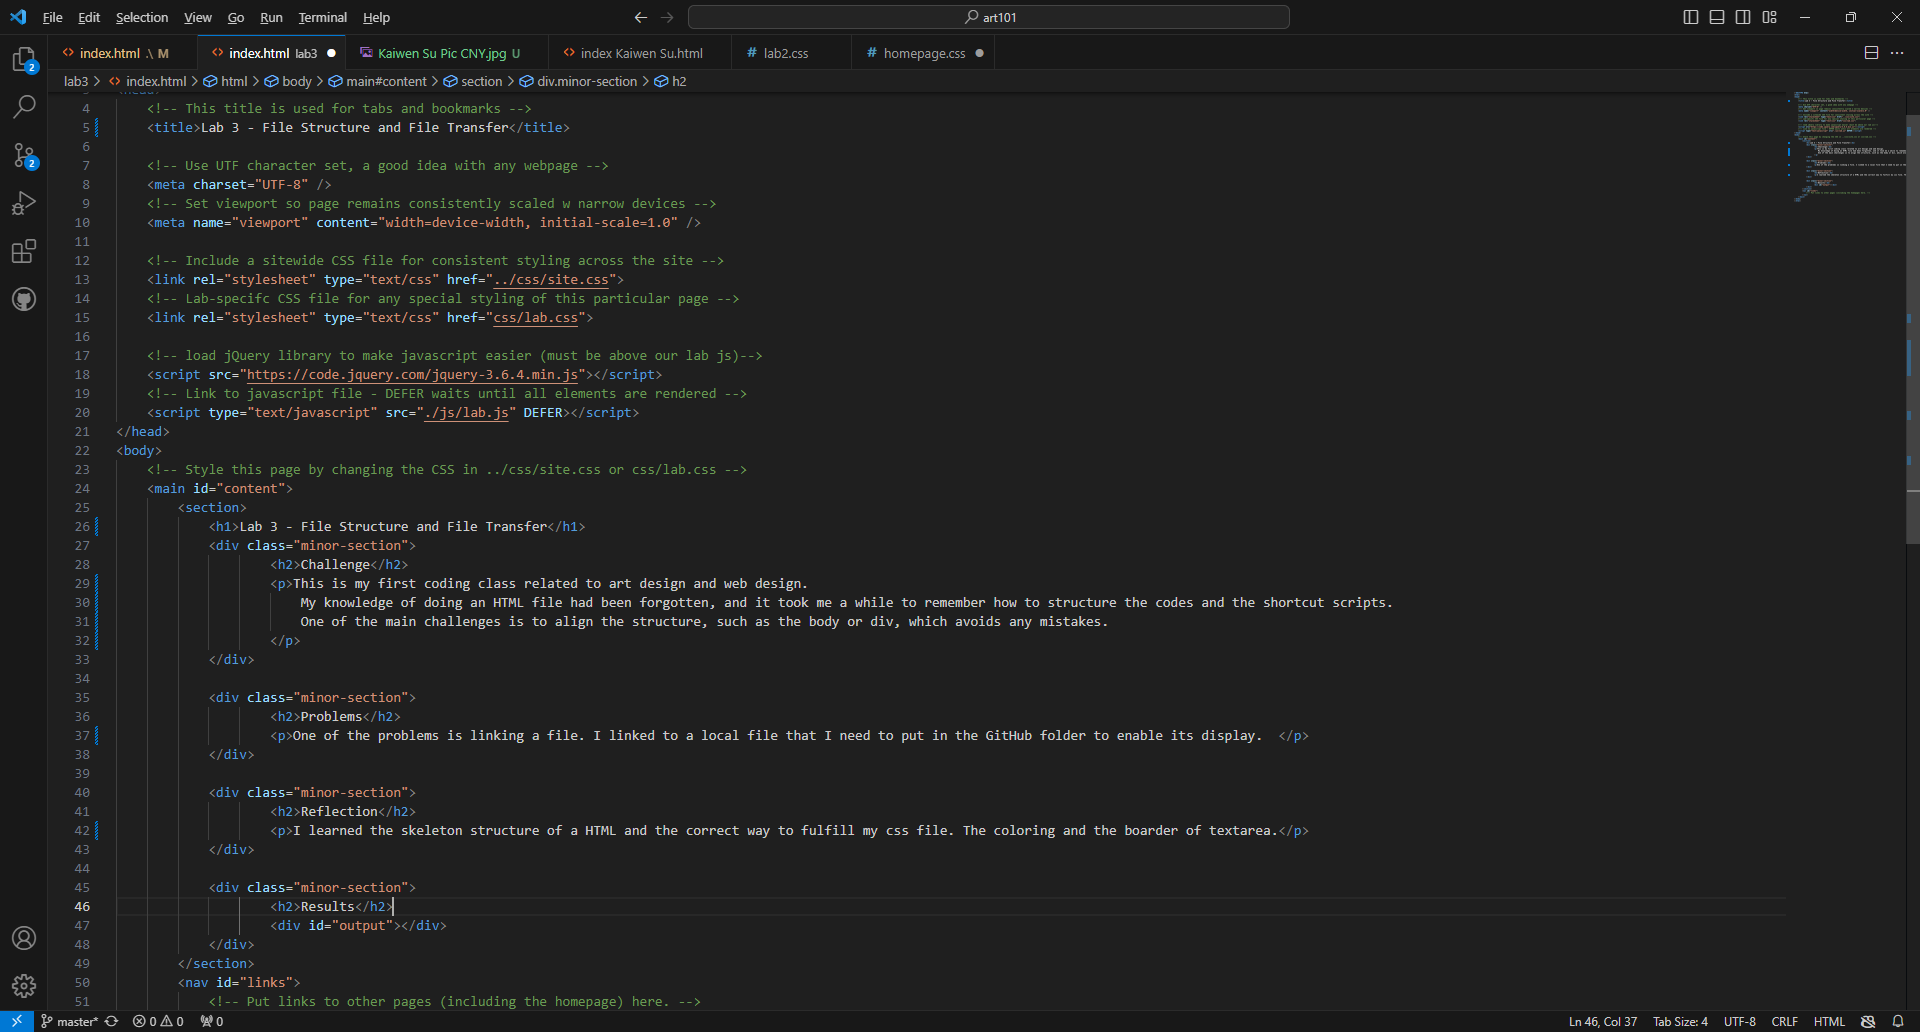
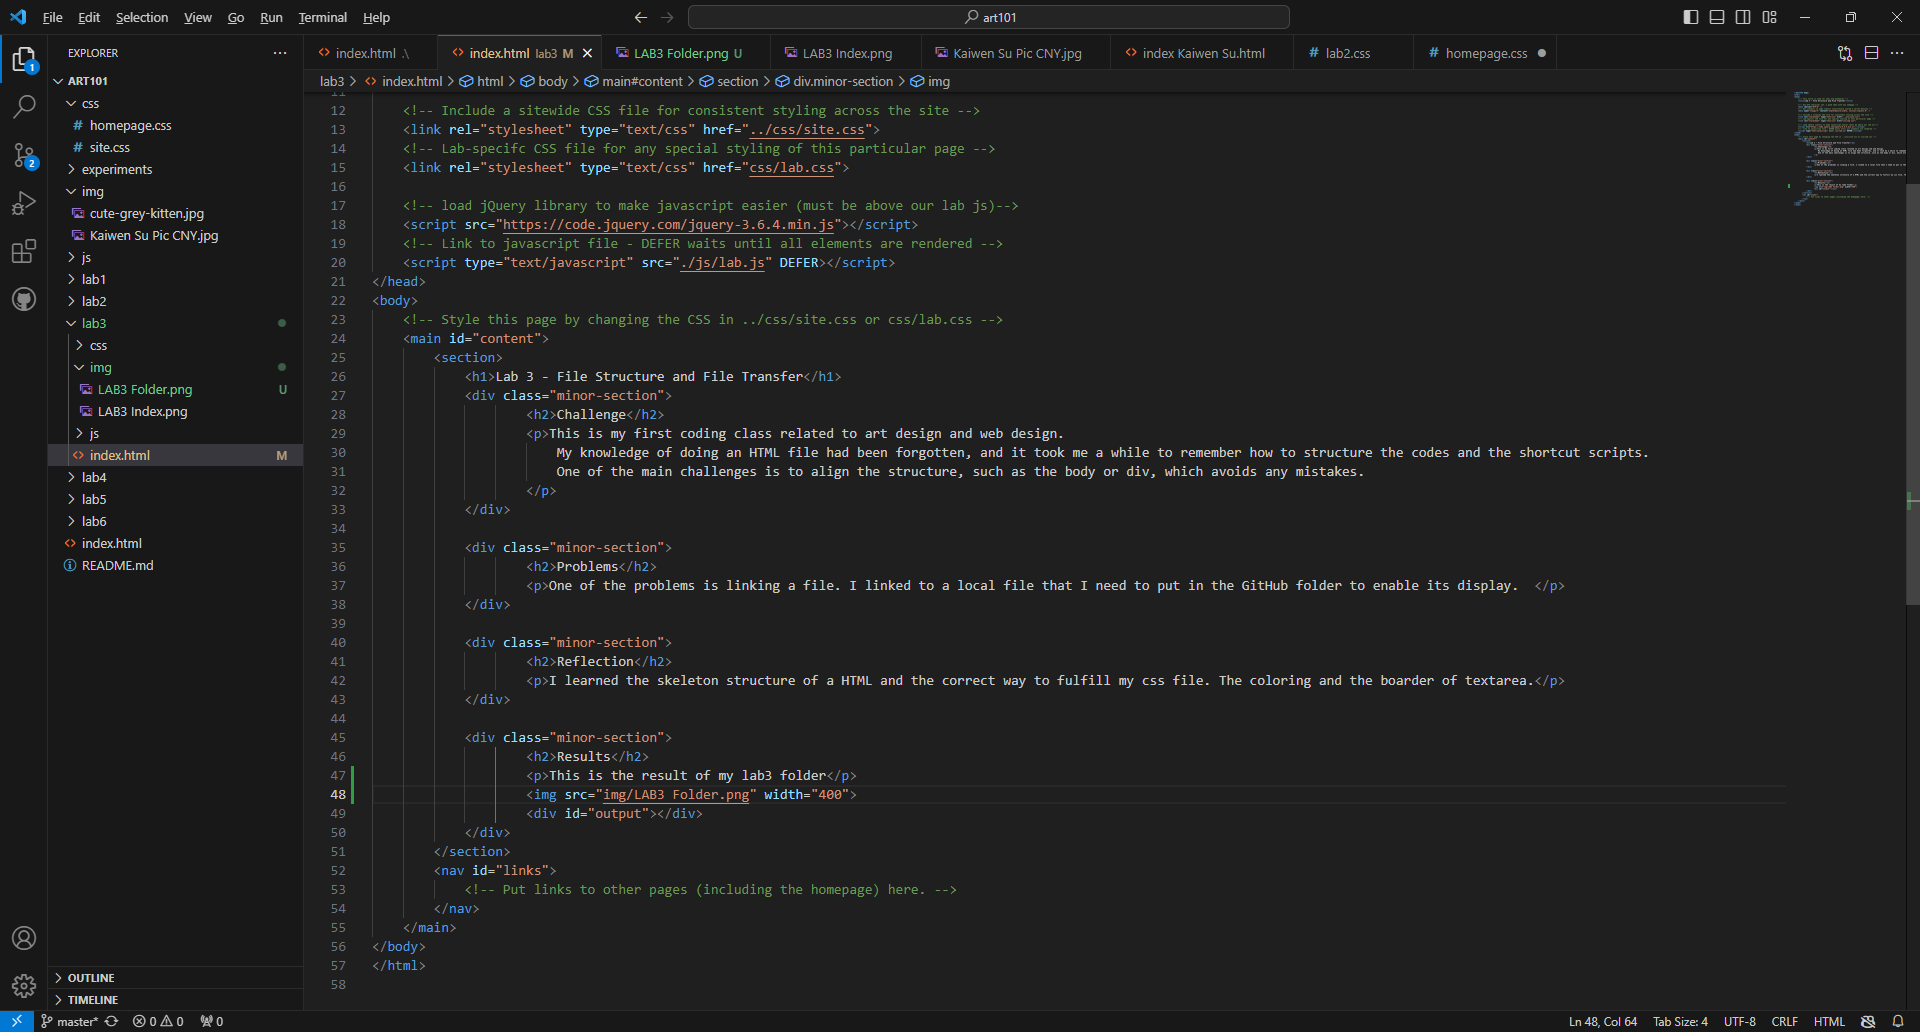
A new index file added to Lab3
I edited every text box required for content. I was linking images from the correct folder and displaying them on the website. I adjusted the sizes to make the result stand out from the page. I also changed the color at CSS, adjusting the yellow that I dislike.

diff --git a/lab3/index.html b/lab3/index.html
@@ -44,10 +44,14 @@
 
 			<div class="minor-section">
 					<h2>Results</h2>
+					<p>This is the result of my lab3 folder</p>
+					<img src="img/LAB3 Folder.png" width="400">
 					<div id="output"></div>
 			</div>
 		</section>
 		<nav id="links">
+			<p>Here is the Final Code:</p>
+			<img src="img/LAB3 Index.png" width="650">
 			<!-- Put links to other pages (including the homepage) here. -->
 		</nav>
 	</main>

diff --git a/lab3/css/lab.css b/lab3/css/lab.css
@@ -4,6 +4,6 @@
 .minor-section {
     padding: 10px;
     margin-bottom: 10px;
-    border: solid 1px #888;
-    background-color: #DDD8C4;
+    border: solid 1px #8f8888;
+    background-color: #e7e6e3;
   }
